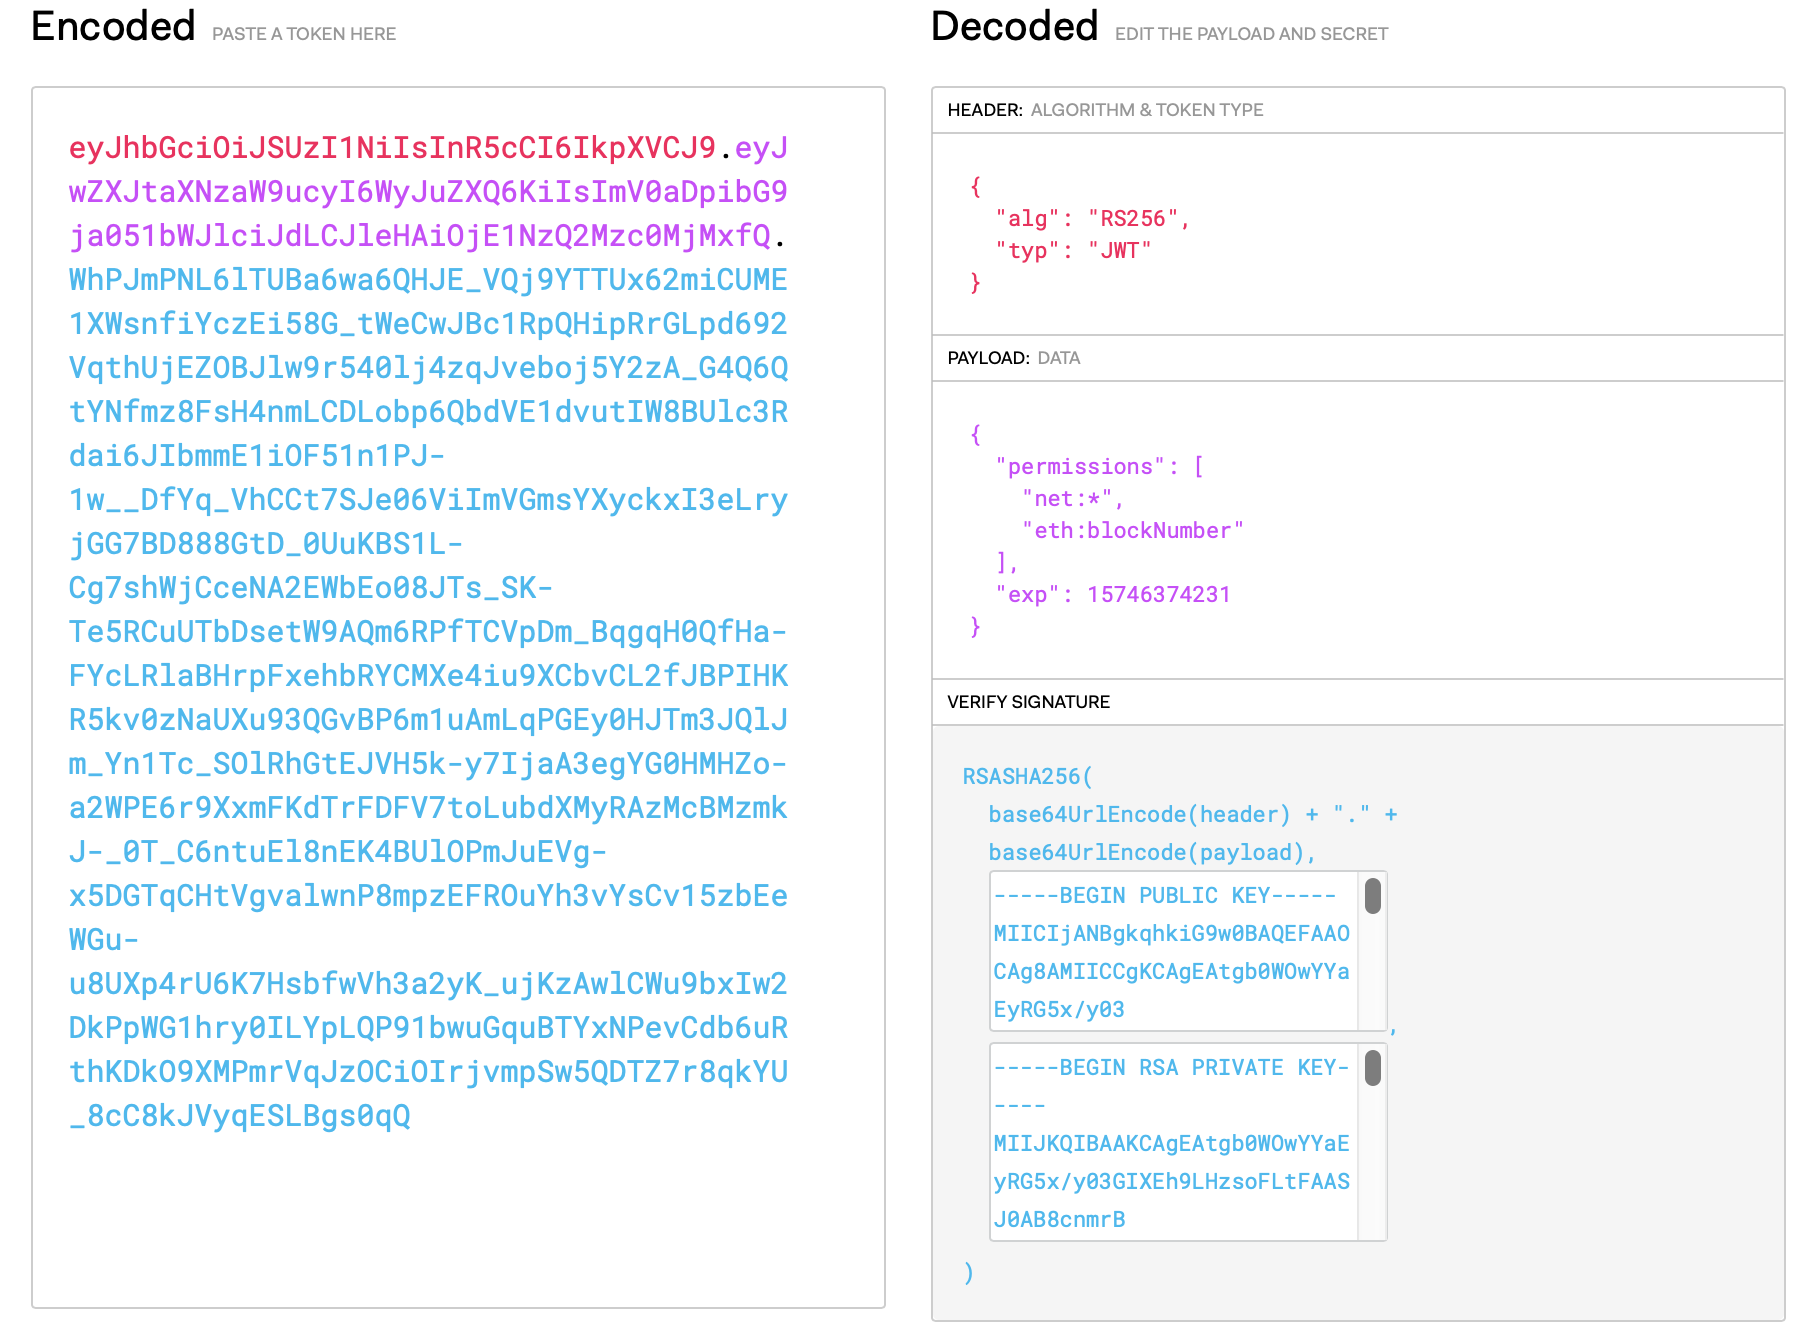
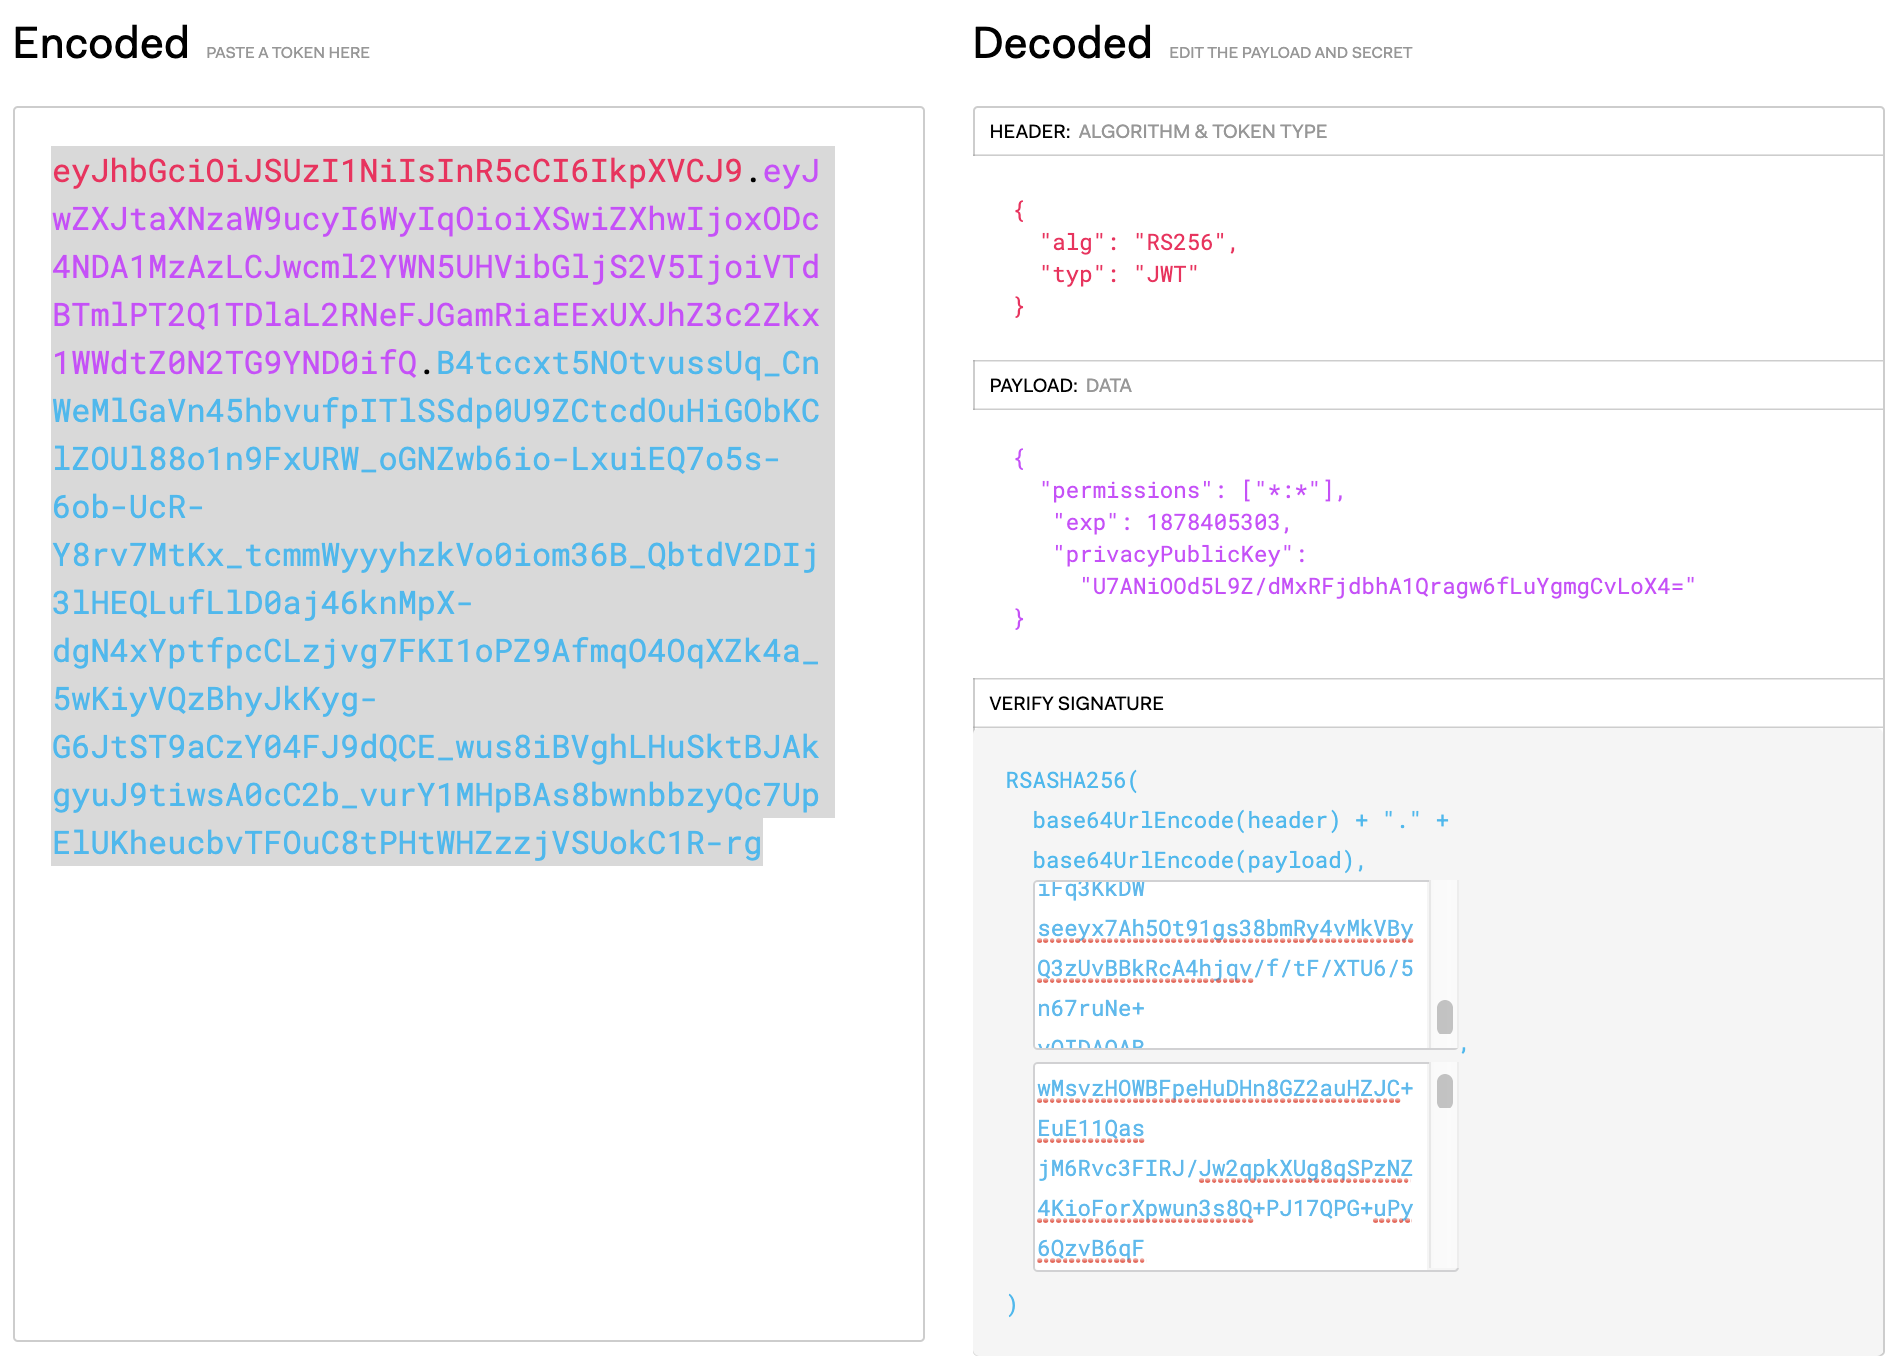
Add multi-tenancy information. (#131)
* Add multi-tenancy information.

* Minor updates.

* Implement reviewer feedback.

* Update diagram.

* Address reviewer feedback.

diff --git a/docs/Tutorials/Privacy/Configuring-Multi-Tenancy.md b/docs/Tutorials/Privacy/Configuring-Multi-Tenancy.md
@@ -1,0 +1,114 @@
+description: Multi-tenancy
+<!--- END of page meta data -->
+
+# Configuring a Multi-tenant Node
+
+### Prerequisites
+
+* [Privacy-enabled network](Configuring-Privacy.md)
+
+Each Besu and associated Orion node in a privacy-enabled network can be
+configured to host [multiple tenants](../../Concepts/Privacy/Multi-Tenancy.md).
+
+In this tutorial we will add tenants to the `Node-1` Besu and Orion node in a 
+[privacy-enabled network](Configuring-Privacy.md). 
+
+```bash
+IBFT-Network/
+├── Node-1
+│   ├── data
+│   ├── Orion
+├── Node-2
+│   ├── data
+│   ├── Orion
+└── Node-3
+    ├── data
+    ├── Orion 
+```
+
+!!! note
+    This tutorial uses [JWT public key authentication](../../HowTo/Interact/APIs/Authentication.md#jwt-public-key-authentication) to create the tenant's JWT tokens, but [Username and password authentication](../../HowTo/Interact/APIs/Authentication.md#username-and-password-authentication) can also be used.
+    
+## 1. Generate a Private and Public Key Pair
+
+In the `Node-1` directory [create the `.pem` formatted key pair](../../HowTo/Interact/APIs/Authentication.md#1-generate-a-private-and-public-key-pair).
+The key pair belongs to the Operator and is used to authenticate the
+[tenant JWT tokens](#7-generate-tenant-jwt-tokens).
+
+!!! note
+    This step is not required when using [username and password authentication](../../HowTo/Interact/APIs/Authentication.md#username-and-password-authentication)
+    to create the required JWT tokens.
+    
+## 2. Generate Orion Keys
+
+In the `Node-1/Orion` directory, [generate a public/private key pair for each
+tenant](Configuring-Privacy.md#3-generate-orion-keys).
+
+Name the key pair `nodeKey2` and `nodeKey3`.
+
+## 3. Update Password File
+
+Update `passwordFile` in the `Node-1/Orion` directory by adding each password
+used to generate the Orion keys on a new line.
+
+A separate password is required for each key pair, even if the passwords are
+identical.
+
+## 4. Update the Orion Configuration File
+
+In the `Node-1/Orion` directory, update the `orion.conf` file by adding the
+new key pairs:
+
+```bash
+nodeurl = "http://127.0.0.1:8080/"
+nodeport = 8080
+clienturl = "http://127.0.0.1:8888/"
+clientport = 8888
+publickeys = ["nodeKey.pub", "nodeKey2.pub", "nodeKey3.pub"]
+privatekeys = ["nodeKey.key", "nodeKey2.key", "nodeKey3.key"]
+passwords = "passwordFile"
+tls = "off"
+```
+
+## 5. Start Orion Nodes
+
+In each `Orion` directory, [start Orion](Configuring-Privacy.md#5-start-orion-nodes) and specify the configuration file.
+
+## 6. Start Besu Node-1
+
+In the `Node-1` directory, start Besu Node-1:
+
+```bash tab="MacOS"
+besu --data-path=data --genesis-file=../genesis.json --rpc-http-authentication-enabled --rpc-http-authentication-jwt-public-key-file=publicKey.pem --rpc-http-enabled --rpc-http-api=ETH,NET,IBFT,EEA,PRIV --host-whitelist="*" --rpc-http-cors-origins="all" --privacy-enabled --privacy-url=http://127.0.0.1:8888 --privacy-multi-tenancy-enabled --min-gas-price=0   
+```
+
+The command line specifies privacy options: 
+
+* [`--rpc-http-authentication-enabled`](../../Reference/CLI/CLI-Syntax.md#rpc-http-authentication-enabled) enables authentication
+for JSON-RPC APIs.
+* [`--rpc-http-authentication-jwt-public-key-file`](../../Reference/CLI/CLI-Syntax.md#rpc-http-authentication-jwt-public-key-file) specifies the Operator's [public key file](#1-generate-a-private-and-public-key-pair). Used to authenticate the [tenant JWT tokens](#7-generate-tenant-jwt-tokens).
+* [`--privacy-enabled`](../../Reference/CLI/CLI-Syntax.md#privacy-enabled) enables privacy.
+* [`--privacy-url`](../../Reference/CLI/CLI-Syntax.md#privacy-url) specifies the Orion node URL (`clienturl` in `orion.conf`)
+* [`--privacy-multi-tenancy-enabled`](../../Reference/CLI/CLI-Syntax.md#privacy-multi-tenancy-enabled) enables multi-tenancy.
+
+!!! note
+    [`--rpc-http-authentication-jwt-public-key-file`](../../Reference/CLI/CLI-Syntax.md#rpc-http-authentication-jwt-public-key-file) is only
+    required when using [JWT public key authentication](../../HowTo/Interact/APIs/Authentication.md#jwt-public-key-authentication). If
+    using [username and password authentication](../../HowTo/Interact/APIs/Authentication.md#username-and-password-authentication),
+    use [`--rpc-http-authentication-credentials-file`](../../Reference/CLI/CLI-Syntax.md#rpc-http-authentication-credentials-file) instead.
+
+[Start the remaining Besu nodes](Configuring-Privacy.md#7-start-besu-node-2).
+
+## 7. Generate Tenant JWT Tokens
+
+[Generate the JWT token](../../HowTo/Interact/APIs/Authentication.md#2-create-the-jwt-token) for each tenant and specify the [tenant's Orion public key](#2-generate-orion-keys)
+in the `privacyPublicKey` field.
+
+Ensure the appropriate [JSON-RPC API permissions](../../HowTo/Interact/APIs/Authentication.md#json-rpc-permissions) are applied to the token. For
+example, ensure the `PRIV` and `EEA` APIs are enabled for privacy.
+
+!!! note
+    This step is not required when using [username and password authentication](../../HowTo/Interact/APIs/Authentication.md#username-and-password-authentication)
+    to create the required JWT tokens.
+    
+  [Use the authentication token to make requests](../../HowTo/Interact/APIs/Authentication.md#using-an-authentication-token-to-make-requests).

diff --git a/docs/HowTo/Interact/APIs/Authentication.md b/docs/HowTo/Interact/APIs/Authentication.md
@@ -4,7 +4,8 @@ description: Hyperledger Besu authentication and Authorization for JSON-RPC
 # Authentication and Authorization for JSON-RPC
 
 Authentication identifies a user, and authorization verifies user 
-access to requested JSON-RPC methods. Users are verified using a [JWT token](https://jwt.io/introduction/)
+access to requested JSON-RPC methods. Users are verified using a [JWT token](https://jwt.io/introduction/).
+JWT tokens are also used in [multi-tenancy](../../../Concepts/Privacy/Multi-Tenancy.md) to verify tenant data access.
 
 Hyperledger Besu supports two mutually exclusive authentication methods:
 
@@ -34,17 +35,21 @@ The `toml` file defines user details and the JSON-RPC methods to which they have
     [Users.username1]
     password = "$2a$10$l3GA7K8g6rJ/Yv.YFSygCuI9byngpEzxgWS9qEg5emYDZomQW7fGC"
     permissions=["net:*","eth:blockNumber"]
+    privacyPublicKey="U7ANiOOd5L9Z/dMxRFjdbhA1Qragw6fLuYgmgCvLoX4="
     
     [Users.username2]
     password = "$2b$10$6sHt1J0MVUGIoNKvJiK33uaZzUwNmMmJlaVLkIwinkPiS1UBnAnF2"
     permissions=["net:version","admin:*"]
+    privacyPublicKey="quhb1pQPGN1w8ZSZSyiIfncEAlVY/M/rauSyQ5wVMRE="
     ```
 
 Each user requiring JSON-RPC access is listed with: 
 
 * Username. `Users.` is mandatory and followed by the username. That is, replace `<username>` in `[Users.<username>]` with the username being defined. 
 * Hash of the user password. Use the [`password hash`](../../../Reference/CLI/CLI-Subcommands.md#password) subcommand to generate the hash. 
-* [JSON-RPC permissions](#json-rpc-permissions). 
+* [JSON-RPC permissions](#json-rpc-permissions).
+* Optional. The tenant's Orion public key using `privacyPublicKey`. Only used
+for [multi-tenancy](../../../Concepts/Privacy/Multi-Tenancy.md). 
 
 !!! example "password hash Subcommand"
     ```bash
@@ -117,10 +122,12 @@ Create the JWT token using an external tool.
 !!! important
     The JWT token must use the `RS256` algorithm 
 
-Each payload for the JWT token must contain:
+Each payload for the JWT token contains:
 
-* [JSON-RPC permissions](#json-rpc-permissions)
-* [`exp` (Expiration Time) claim](https://tools.ietf.org/html/rfc7519#section-4.1.4). 
+* [JSON-RPC permissions](#json-rpc-permissions).
+* [`exp` (Expiration Time) claim](https://tools.ietf.org/html/rfc7519#section-4.1.4).
+* Optional. The tenant's Orion public key using `privacyPublicKey`. Only used
+for [multi-tenancy](../../../Concepts/Privacy/Multi-Tenancy.md). 
 
 The following example uses the [JWT.io](https://jwt.io/) website to create a JWT token for testing purposes.
 

diff --git a/docs/Reference/CLI/CLI-Syntax.md b/docs/Reference/CLI/CLI-Syntax.md
@@ -1151,6 +1151,26 @@ privacy-marker-transaction-signing-key-file="/home/me/me_node/myPrivateKey"
 If using [account permissioning](../../Concepts/Permissioning/Permissioning-Overview.md#account-permissioning) 
 and privacy, a private key file must be specified and the signing key included in the accounts whitelist.  
 
+### privacy-multi-tenancy-enabled
+
+```bash tab="Syntax"
+--privacy-multi-tenancy-enabled[=<true|false>]
+```
+
+```bash tab="Command Line"
+--privacy-multi-tenancy-enabled=false
+```
+
+```bash tab="Environment Variable"
+BESU_PRIVACY_MULTI_TENANCY_ENABLED=false
+```
+
+```bash tab="Configuration File"
+privacy-multi-tenancy-enabled=false
+```
+
+Set to enable [multi-tenancy](../../Concepts/Privacy/Multi-Tenancy.md) for private transactions. Default is `false`.
+
 ### privacy-precompiled-address
 
 ```bash tab="Syntax"
@@ -1178,7 +1198,10 @@ BESU_PRIVACY_PUBLIC_KEY_FILE=Orion/nodeKey.pub
 privacy-public-key-file="Orion/nodeKey.pub"
 ```
 
-Path to the [public key of the Orion node](../../Concepts/Privacy/Privacy-Overview.md#besu-and-orion-keys).     
+Path to the [public key of the Orion node](../../Concepts/Privacy/Privacy-Overview.md#besu-and-orion-keys). 
+
+!!! important
+    Cannot be used when [`--privacy-multi-tenancy-enabled`](#privacy-multi-tenancy-enabled) is `true` 
 
 ### privacy-url
 

diff --git a/docs/Concepts/Privacy/Multi-Tenancy.md b/docs/Concepts/Privacy/Multi-Tenancy.md
@@ -1,0 +1,29 @@
+description: Multi-tenancy
+<!--- END of page meta data -->
+
+# Multi-tenancy
+
+By default, each participant in a privacy network uses its own Besu and Orion
+node.
+
+Multi-tenancy allows multiple participants to use the same Besu and
+Orion node. Each participant is called a Tenant, and the Operator is the
+owner of the Besu and Orion node.
+
+!!! important
+    The Operator is responsible for [configuring multi-tenancy](../../Tutorials/Privacy/Configuring-Multi-Tenancy.md), and has 
+    access to all tenant data.
+    
+![Multi-tenancy](../../images/Multi-tenancy.png)
+
+!!! important
+    Ensure the multi-tenant Orion node client API is configured to allow access only by the multi-tenant Besu node. Access to your data is secured through Besu using multi-tenancy mode.
+
+    If not configured to allow access only by the multi-tenant Besu node, other Orion clients including other Besu nodes may be able to access tenant data.
+
+Multi-tenancy validates that tenants are permitted to use the specified HTTP or
+Websocket JSON-RPC requests, and the tenant has access to the requested privacy
+data. Private data is segregated, and each tenant uses a JWT token for
+authentication.
+
+The JWT token can be created [externally or internally](../../HowTo/Interact/APIs/Authentication.md).

diff --git a/docs/Tutorials/Privacy/Configuring-Privacy.md b/docs/Tutorials/Privacy/Configuring-Privacy.md
@@ -142,7 +142,7 @@ Copy the enode URL to specify Node-1 as the bootnode in the following steps.
 
 ![Node 1 Enode URL](../../images/EnodeStartup.png)
 
-### 7. Start Besu Node-2 
+## 7. Start Besu Node-2 
 
 In the `Node-2` directory, start Besu Node-2 specifying the Node-1 enode URL copied when starting Node-1 as the bootnode:
  
@@ -160,7 +160,7 @@ The command line specifies the same options as for Node-1 with different ports a
 !!!note
     When running Besu from the [Docker image](../../HowTo/Get-Started/Run-Docker-Image.md), [expose ports](../../HowTo/Get-Started/Run-Docker-Image.md#exposing-ports).
 
-### 8. Start Besu Node-3
+## 8. Start Besu Node-3
 
 In the `Node-3` directory and start Besu Node-3 specifying the Node-1 enode URL copied when starting Node-1 as the bootnode: 
 

diff --git a/docs/HowTo/Use-Privacy/Privacy.md b/docs/HowTo/Use-Privacy/Privacy.md
@@ -19,10 +19,7 @@ create the privacy group containing the recipients of the private transaction.
 Specify `privacyGroupId` when creating the signed transaction passed as an input parameter to [`eea_sendRawTransaction`](../../Reference/API-Methods.md#eea_sendrawtransaction)
 to create an EEA-compliant private transaction. 
 
-!!! note
-    Support for specifying `privacyGroupId` when using `eea_sendTransaction` with EthSigner will be available in
-    a future EthSigner release. 
-    
+
 ## Privacy Group Type 
 
 Privacy groups created using  [`priv_createPrivacyGroup`](../../Reference/API-Methods.md#priv_createprivacygroup)

diff --git a/docs/Concepts/Privacy/Privacy-Overview.md b/docs/Concepts/Privacy/Privacy-Overview.md
@@ -27,5 +27,9 @@ Private transactions are passed from the Besu node to the associated Orion node.
 encrypts and directly distributes (that is, point to point) the private transaction to Orion nodes 
 participating in the transaction. 
 
+By default, each participant in a privacy network uses its own Besu and Orion
+node. [Multi-tenancy](Multi-Tenancy.md) allows multiple participants to use the same Besu and Orion
+node.
+
 !!! tip
-    Private Transaction Managers are also known as Enclaves.  
+    Private Transaction Managers are also known as Enclaves.
